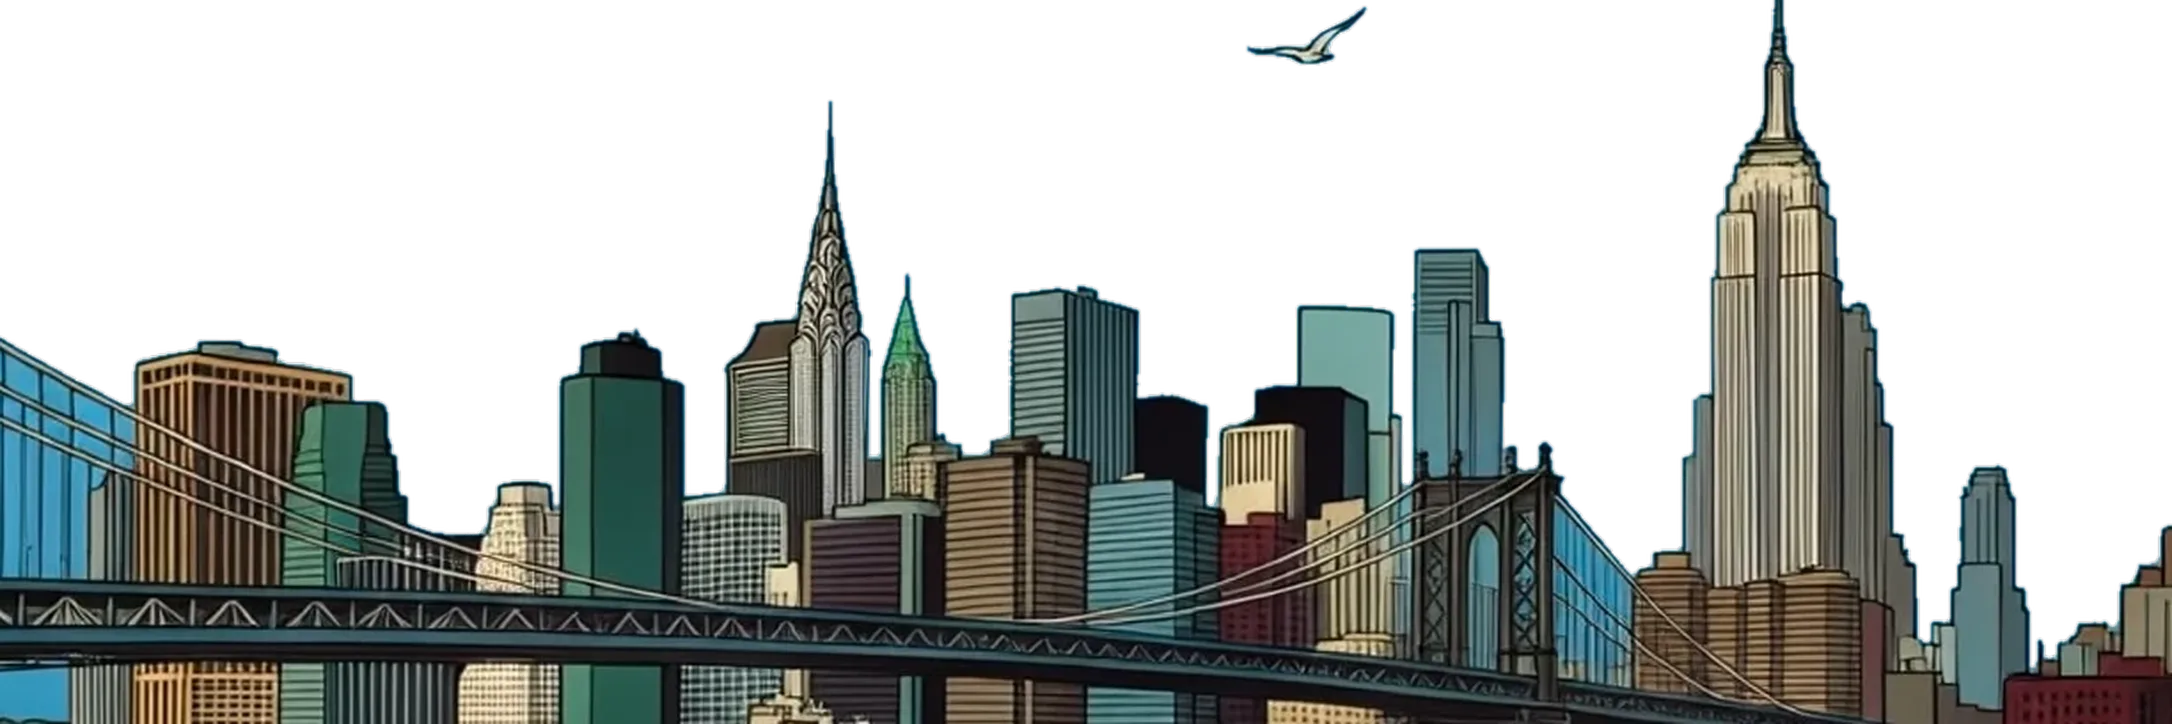
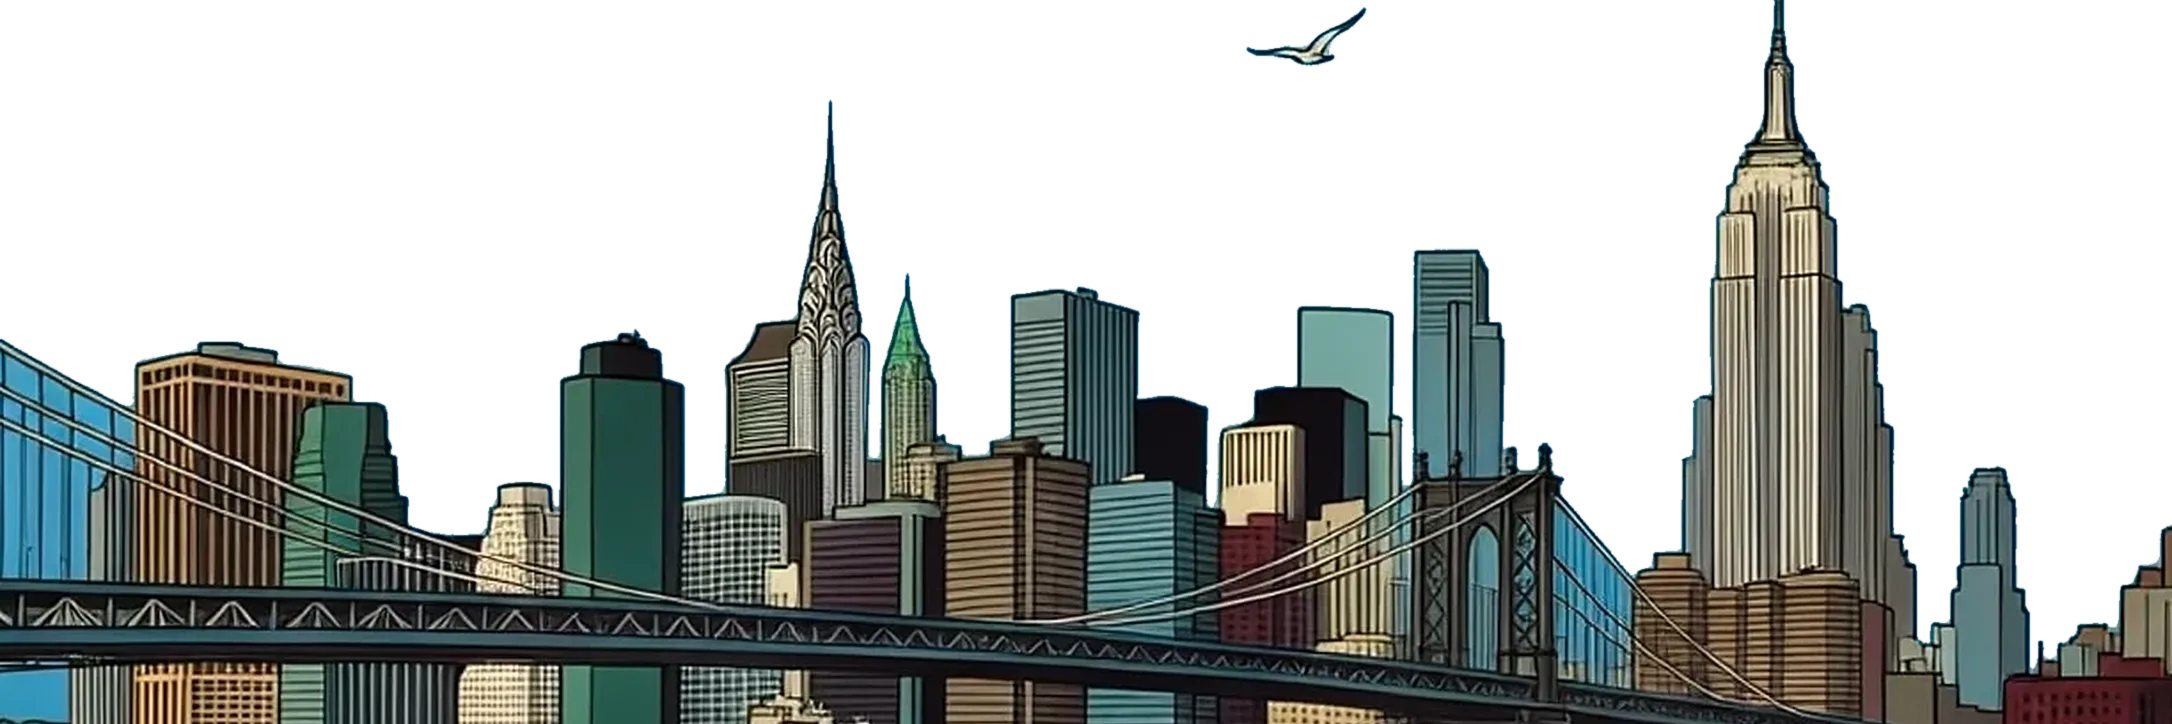
Scenery: the city skyline at twice the resolution
Scott's wide skyline print upscaled 2x (Lanczos, light unsharp mask) and
re-cut with scripts/scenery/cut_print.py, so the heading and the page's
foot no longer look soft on a sharp screen.

Claude-Session: https://claude.ai/code/session_01QJk9i7cp4MAhnQkqC2Gc6G

diff --git a/src/components/place/panoramas.ts b/src/components/place/panoramas.ts
@@ -175,7 +175,7 @@ export const PRINTS: Record<SceneryPrintId, Panorama> = {
   // skyline with its bridge (its blue sky keyed out). The heading shows each
   // whole.
   'subway': { src: subway, veil: subway_veil, skyline: 0.1423, headingSrc: subway_heading, headingFocus: 'center 52%' },
-  'skyline': { src: skyline, veil: skyline_veil, skyline: 0.1645, headingSrc: skyline_heading, headingFocus: 'center 45%' },
+  'skyline': { src: skyline, veil: skyline_veil, skyline: 0.1574, headingSrc: skyline_heading, headingFocus: 'center 45%' },
 }
 
 /** The art for the chosen background. */
